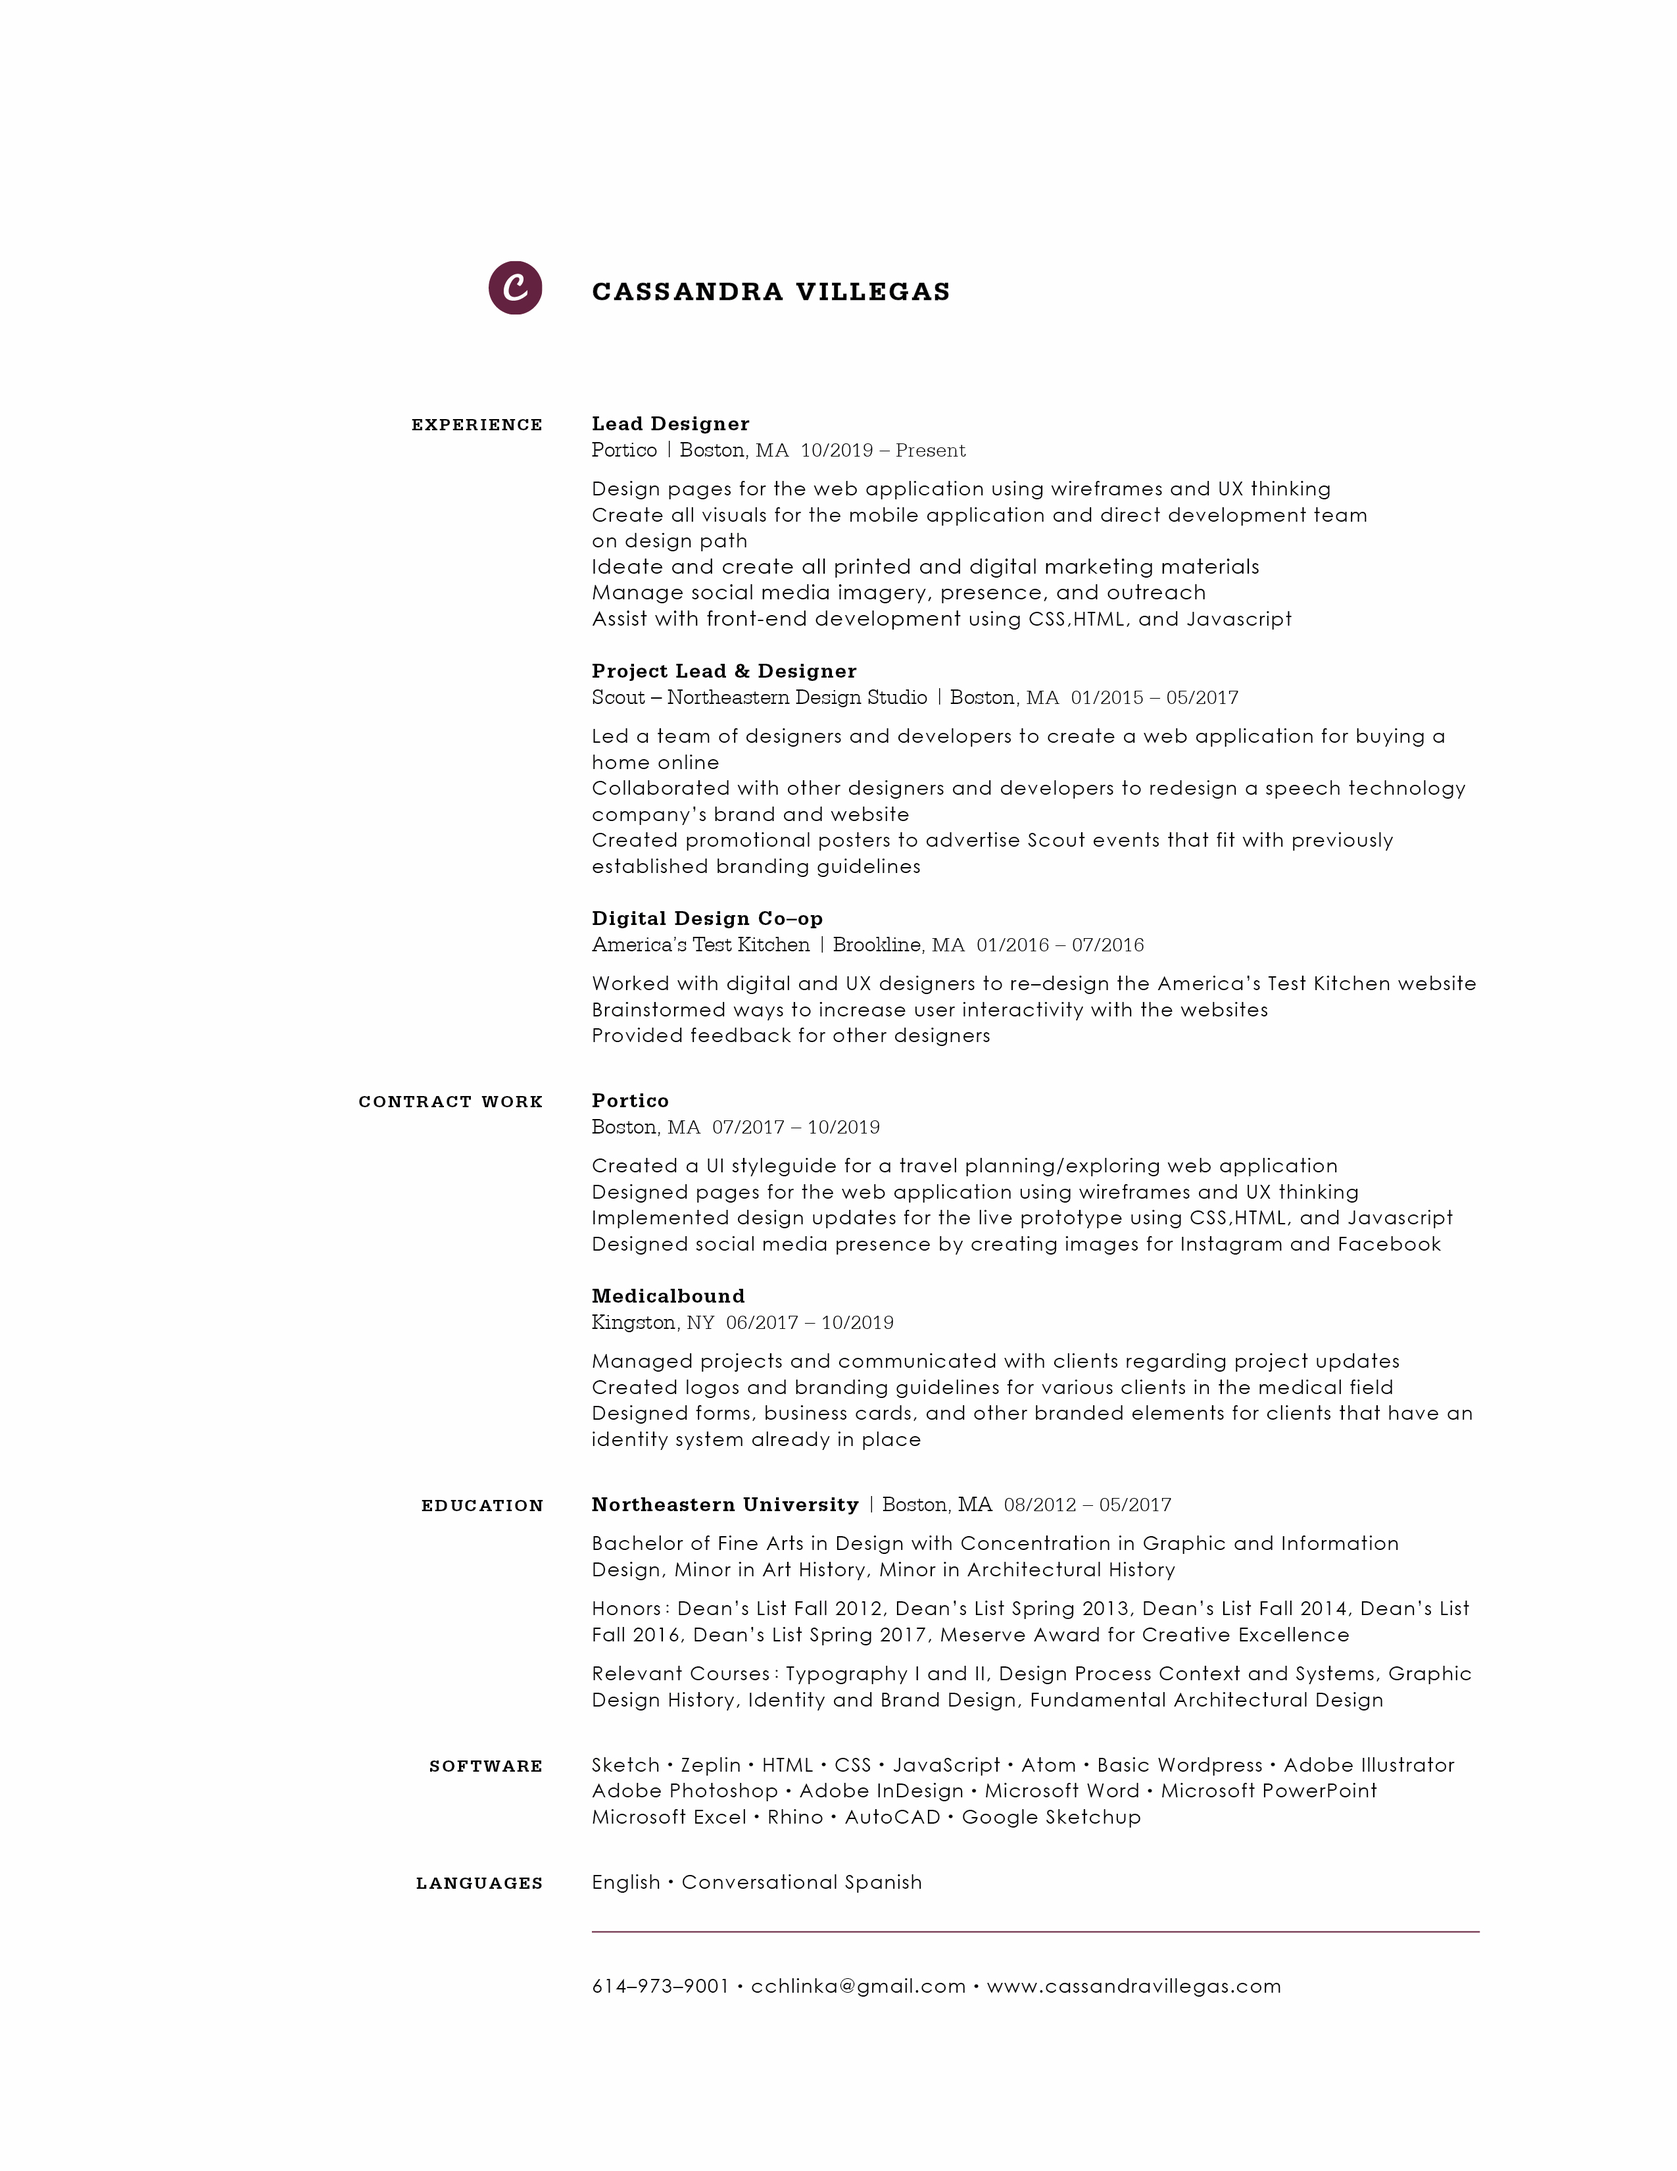
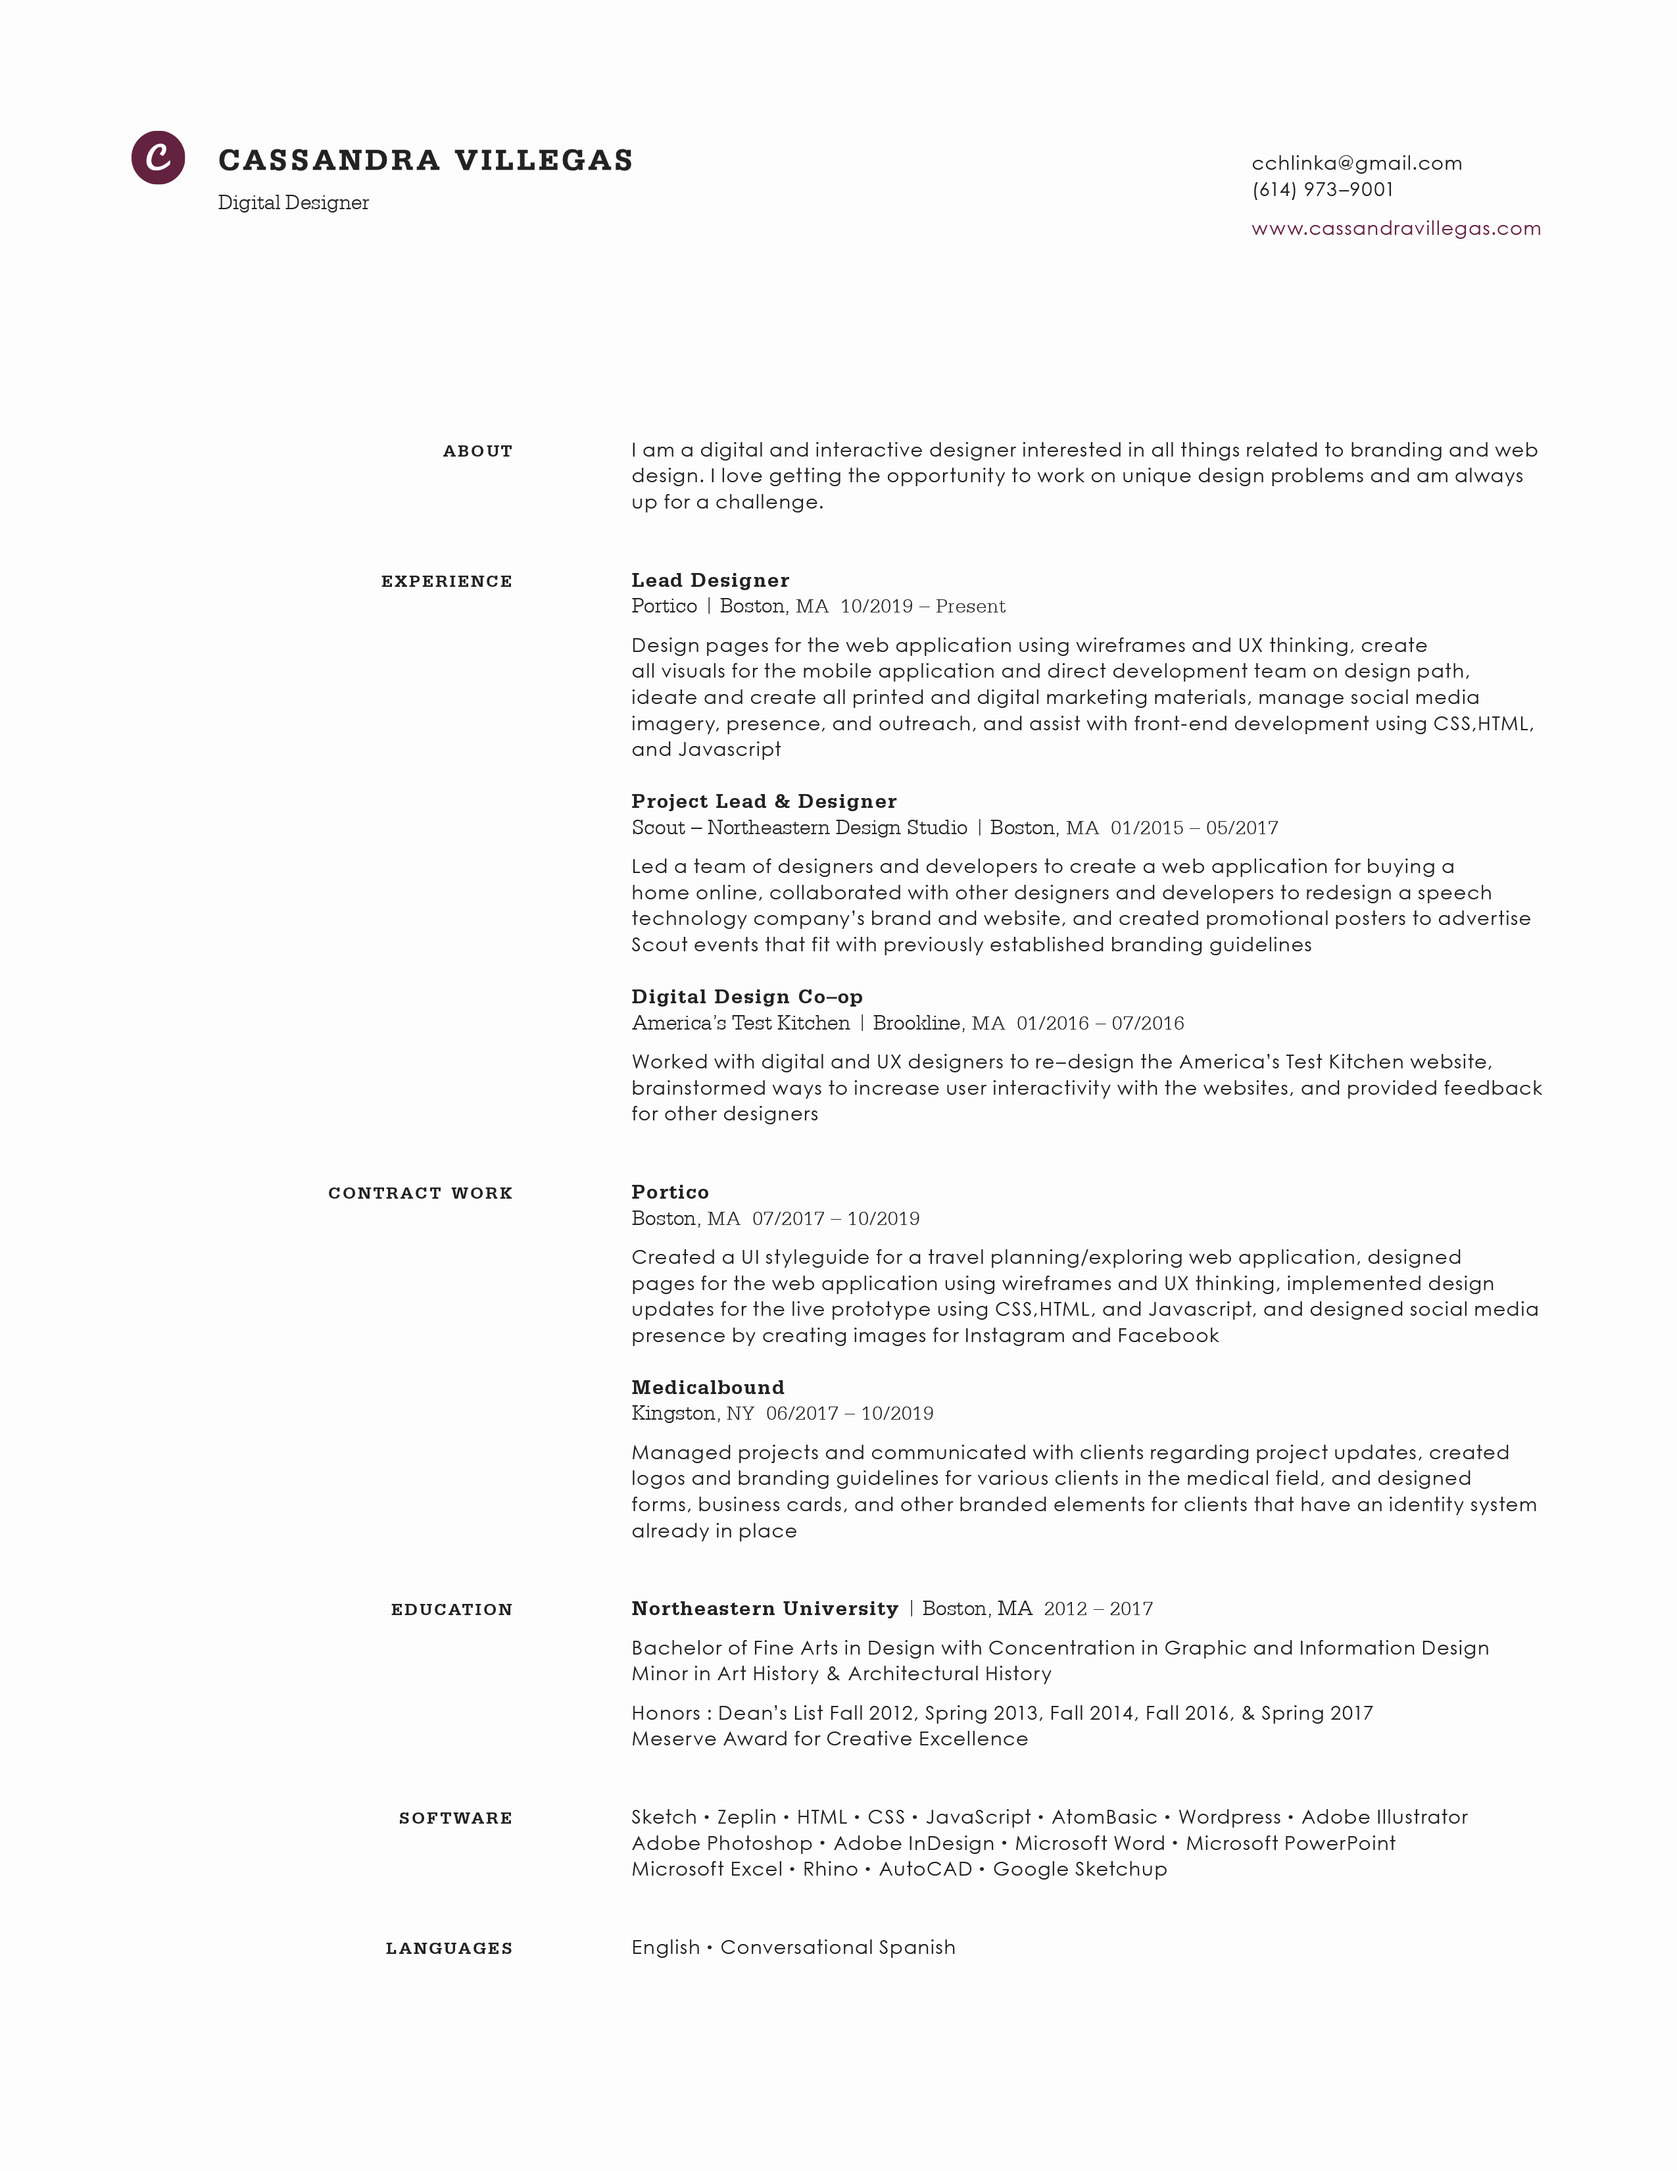
Creation of GitHub cover letter page and update of resume.

diff --git a/github.html b/github.html
@@ -1,0 +1,121 @@
+<!DOCTYPE html>
+<html lang="en">
+  <head>
+    <meta charset="utf-8">
+    <meta http-equiv="X-UA-Compatible" content="IE=edge">
+    <meta name="viewport" content="width=device-width, initial-scale=1">
+    <title>Why GitHub</title>
+
+    <link rel="stylesheet" href="https://maxcdn.bootstrapcdn.com/bootstrap/3.3.7/css/bootstrap.min.css" integrity="sha384-BVYiiSIFeK1dGmJRAkycuHAHRg32OmUcww7on3RYdg4Va+PmSTsz/K68vbdEjh4u" crossorigin="anonymous">
+    <link href="stylesheets/style.css" rel="stylesheet">
+    <link href="https://fonts.googleapis.com/css?family=Arvo:400,700|Muli:400,700,900" rel="stylesheet">
+
+    <script type="text/javascript" src="https://ajax.googleapis.com/ajax/libs/jquery/1.8.1/jquery.min.js"></script>
+    <script type="text/javascript" src="js/JavaScript.js"></script>
+
+    <link rel="shortcut icon" href="images/favicon.ico" type="image/x-icon">
+
+
+  </head>
+  <body class="coverLetter">
+    <div class="container-fluid">
+
+
+      <!-- <div class="nav row">
+
+        <div class="col-lg-5 col-md-5 col-sm-5 col-xs-10 home-link" >
+          <div class="logo">
+          <img src="images/ch_logo.png" alt="Cassandra Villegas" style="width:30px;height:30px;">
+          </div>
+
+          <div class="name">
+          <a href="index.html"><h5>Cassandra Villegas</h5></a>
+          </div>
+
+        </div>
+
+        <div class="col-xs-1 hamburger" onclick="myFunction(this)">
+            <div class="bar1"></div>
+            <div class="bar2"></div>
+            <div class="bar3"></div>
+        </div>
+
+        <div class="col-lg-4 col-lg-push-2 col-md-4 col-md-push-2 col-sm-5 col-sm-push-1 menu">
+          <a href="index.html">Portfolio</a>
+          <a href="about.html">About</a>
+          <a href="resume.html" id="nav">Resume</a>
+
+        </div>
+
+        <style>
+            .menu { display: flex; justify-content: space-between; }
+        </style>
+
+      </div> -->
+
+
+      <div class="row coverLetter" id="coverLetter_intro">
+            <div class="fadeIn col-lg-12 col-md-12 col-sm-12 col-xs-12">
+              <h1>I Want to Work at GitHub</h1>
+              <h2>Because I am passionate about designing products that encourage digital exploration.</h2>
+              <br>
+              <h3>A Digital Cover Letter by Cassandra Villegas</h3>
+            </div>
+      </div>
+
+      <div class="row coverLetter">
+            <div class="fadeIn col-lg-8 col-lg-push-2 col-md-12 col-sm-12 col-xs-12">
+              <p>I am a digital and interactive designer interested in everything related to branding and web design. I’m especially interested in the Product Designer position because I think I would be a great fit based on the responsibilities and qualifications. I would love for the chance to apply for the open position and give you a sense of the type of designer I am.</p>
+            </div>
+      </div>
+
+      <div class="row coverLetter">
+            <div class="fadeIn col-lg-8 col-lg-push-2 col-md-12 col-sm-12 col-xs-12">
+              <p>As an introduction to myself, I’ve worked on a variety of projects, from web and app design, to branding and print design. Currently, I am the lead designer for <a target="_blank" href="https://portico.travel/">Portico</a>, a travel inspiration and planning web application. My position involves creating wireframes for user testing, designing static mockups for web application development, and assisting with front end development for the web application. I have also been leading the UX and UI design for our mobile application that we are currently building for a first round of user tests. The Portico office is located in Boston, MA, however I work remotely from Kingston, NY and have been comfortably working remotely with the team for nearly three years.</p>
+            </div>
+      </div>
+
+      <div class="row coverLetter">
+            <div class="fadeIn col-lg-8 col-lg-push-2 col-md-12 col-sm-12 col-xs-12">
+              <p>Before I started my position with Portico, I was a Project Manager and Designer for <a target="_blank" href="https://www.medicalbound.com/">Medical Bound</a>, a marketing agency located out of New York, NY. My role involved managing and designing a variety of projects, from landing pages and websites, to brochures and business cards. I worked with an entirely remote team of six and handled all communication with our clients throughout the project process.</p>
+            </div>
+      </div>
+
+      <div class="row coverLetter">
+            <div class="fadeIn col-lg-8 col-lg-push-2 col-md-12 col-sm-12 col-xs-12">
+              <p>I’m very passionate about creating enjoyable digital experiences for users, and am always up for a challenge. I would love to work with GitHub and I think I could bring a lot to the team.</p>
+              <p>Thank you so much and I hope we can work together in the future!</p>
+              <br>
+              <h4>You can find more of my work on my <a target="blank" href="https://cassandravillegas.com/">website</a>. I've listed my contact information below.</h4>
+            </div>
+      </div>
+
+      <div class="row coverLetter">
+        <div class="fadeIn col-lg-6 col-lg-push-3 col-md-12 col-sm-12 col-xs-12" id="contact">
+          <h3>Contact</h3>
+          <p><a href="mailto:cchlinka@gmail.com">cchlinka@gmail.com</a>&emsp;|&emsp;
+          <a target="blank" href="https://www.linkedin.com/in/cassandra-villegas/">LinkedIn</a>&emsp;|&emsp;<a target="blank" href="https://www.facebook.com/cassie.h.villegas">Facebook</a></p>
+        </div>
+      </div>
+    </div>
+
+          <div class="test-menu">
+      <div class="col-xs-12 mobile-nav">
+        <a href="index.html">Portfolio</a>
+        <hr>
+        <a href="about.html">About</a>
+        <hr>
+        <a href="resume.html" id="nav">Resume</a>
+      </div>
+
+    </div>
+
+
+    <!-- jQuery (necessary for Bootstrap's JavaScript plugins) -->
+    <script src="https://ajax.googleapis.com/ajax/libs/jquery/1.12.4/jquery.min.js"></script>
+    <!-- Include all compiled plugins (below), or include individual files as needed -->
+    <script src="https://maxcdn.bootstrapcdn.com/bootstrap/3.3.7/js/bootstrap.min.js" integrity="sha384-Tc5IQib027qvyjSMfHjOMaLkfuWVxZxUPnCJA7l2mCWNIpG9mGCD8wGNIcPD7Txa" crossorigin="anonymous"></script>
+
+
+  </body>
+</html>

diff --git a/stylesheets/style.css b/stylesheets/style.css
@@ -1101,6 +1101,54 @@ h6 {
 	height: 600px;
 }
 
+/* GITHUB COVER LETTER */
+.row.coverLetter {
+  text-align: center;
+  margin: 10vh 0 30vh 0;
+}
+.coverLetter h1 {
+  font-size: 60px;
+  line-height: 1.2em;
+}
+.coverLetter h2 {
+  font-family: 'Muli', arial, sans-serif;
+  font-size: 37px;
+  line-height: 1.2em;
+}
+.coverLetter h3 {
+  font-size: 23px;
+  line-height: 1.2em;
+  color: #666666;
+}
+.coverLetter p{
+  font-size: 20px;
+  line-height: 1.7em;
+  text-align: left;
+}
+.coverLetter a {
+  color: #642240;
+  border-bottom: 1px solid #642240;
+}
+.coverLetter a:hover {
+  color: #666666;
+  border-color: #666666;
+}
+#coverLetter_intro {
+  height: 100vh;
+  display: table-cell;
+  vertical-align: middle;
+}
+.coverLetter #contact p {
+  text-align: center;
+}
+.coverLetter #contact a {
+  color: #666666;
+  border-bottom: none;
+}
+.coverLetter #contact a:hover {
+  color: #642240;
+}
+
 
 /*Media Query Tablet*/
 
@@ -1753,5 +1801,12 @@ h6 {
   #porticoMobile.detail-large-image {height: 240px;}
   #porticomock1.detail-xl-image, #porticomock2.detail-xl-image {height: 315px;}
   #porticomock3.detail-xl-image {height: 275px;}
+
+  /* GITHUB COVER LETTER */
+  .coverLetter h1 {font-size: 37px;}
+  .coverLetter h2 {font-size: 26px;}
+  .coverLetter h3 {font-size: 20px;}
+  .coverLetter h4 {font-size: 16px; line-height: 1.5em;}
+  .coverLetter p{font-size: 18px;}
 
 }
